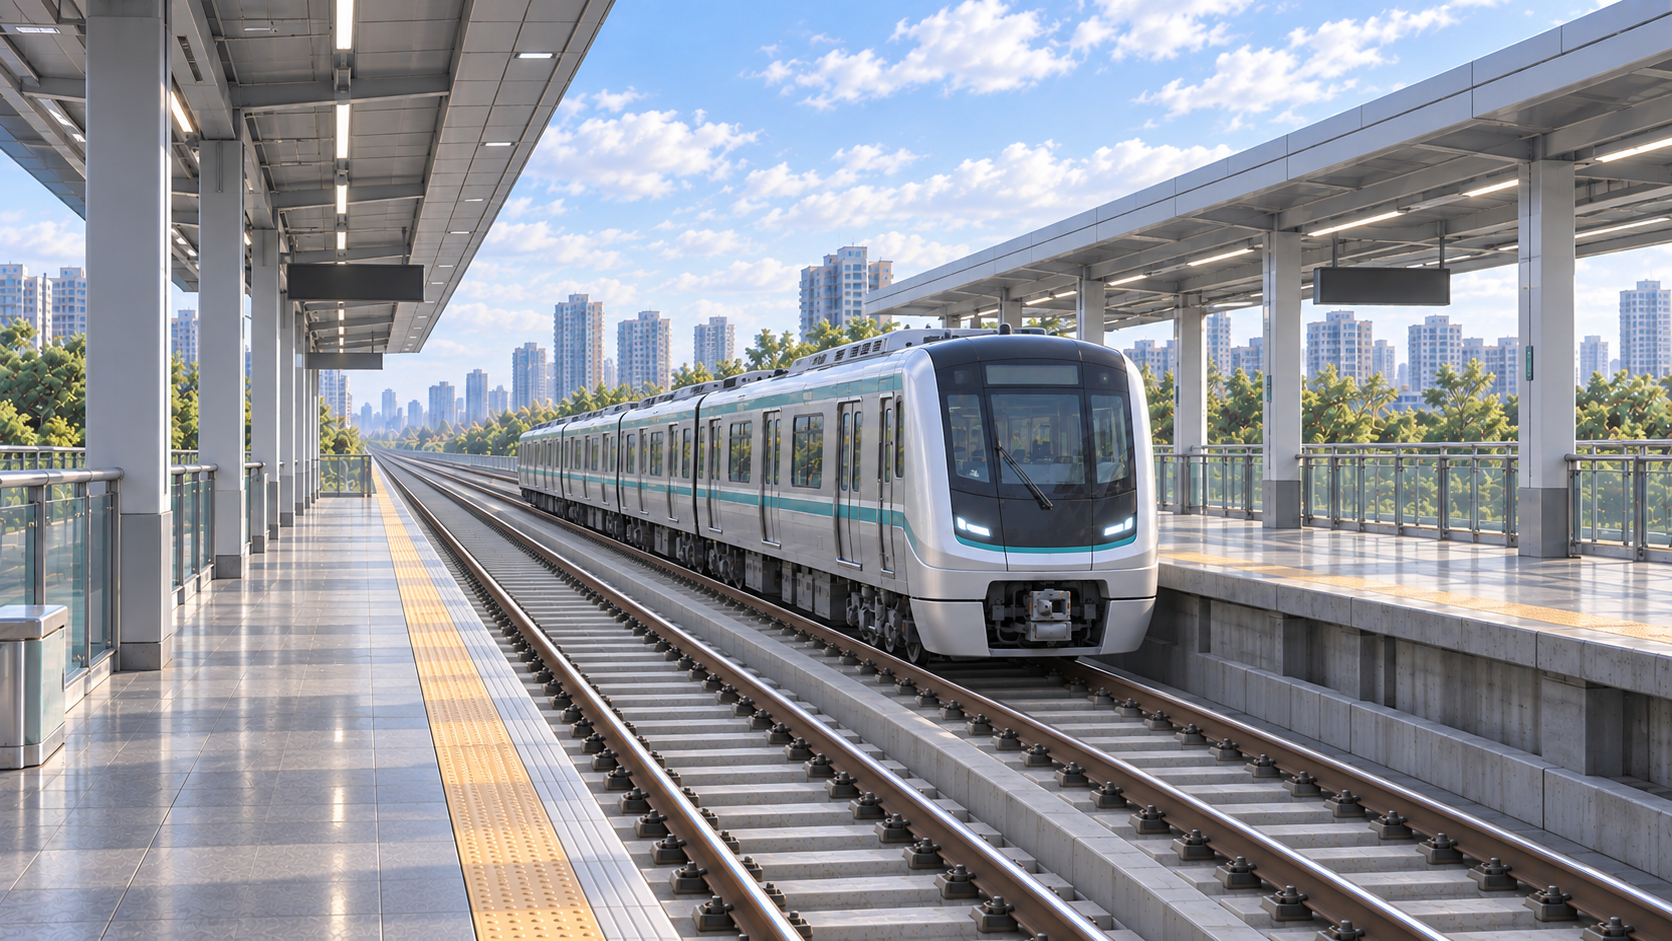
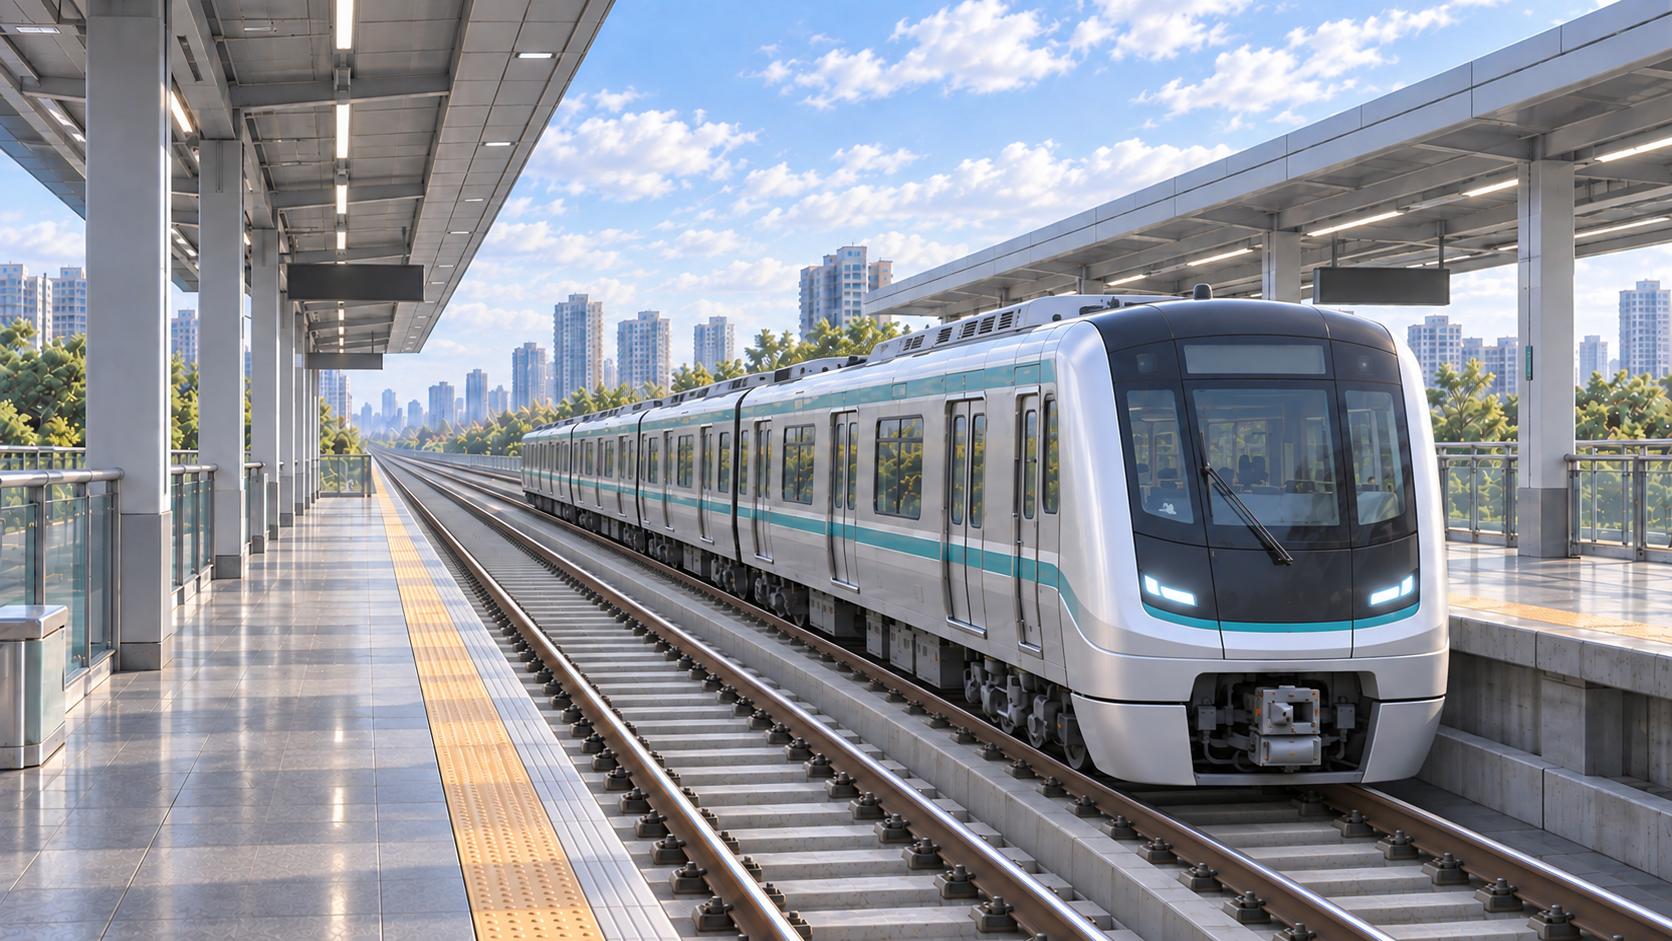
Bring the hero train forward within the station artwork

diff --git a/docs/design/home-train-forward-prompt.md b/docs/design/home-train-forward-prompt.md
@@ -1,0 +1,11 @@
+# Move the home hero train forward
+
+Edited with the built-in image generation tool. References: the previous `public/images/home-train-modern-cn.png` and the user's home page screenshot (composition context only). Selected output replaces `public/images/home-train-modern-cn.png`. Page layout and CSS remain unchanged.
+
+## Prompt
+
+Use case: precise-object-edit. Edit image 1, the clean Chinese metro station artwork. Image 2 is ONLY supporting context showing the actual application overlay; never reproduce its text, buttons, panels or darkness. Output ONLY a clean full-resolution 16:9 station background image.
+USER REQUEST: move the same train FORWARD toward the camera on its existing right-hand track. Keep the existing camera and station composition, same original modern rounded silver/teal Chinese metro design, same high-poly UE game visual quality. Do not redesign the train, zoom the entire scene, crop the image or change the station architecture.
+Translate the entire train several meters forward along its rails. It should look clearly closer and moderately larger, about 25-30 percent larger than image 1, not an enormous close-up. Because of track perspective the cab shifts toward the RIGHT as it advances. Target cab center around 78-80% of image width, with cab width around 21-23% image width, right edge around 91-92% of frame, roof around 24-27% image height and wheels around 75-78%. Cab remains entirely inside image with breathing room on right. Keep some of the right platform paving, columns and canopy visibly framing the train on the right, and broad left platform unchanged.
+COMPOSITION PURPOSE: in the actual application, action cards cover the lower middle/left part of this image. Move the cab into the right-hand clear area so its face can be seen beside those cards rather than directly behind them. Preserve calm uncluttered left side for text. This is achieved through the TRAIN POSITION INSIDE THE IMAGE only, not UI edits.
+Strict invariants: preserve same cab silhouette, short horizontal headlights, front windshield, pale silver body and subtle teal belt; realistic carbody and wheel proportions. Bogies and wheels must remain exactly on the RIGHT pair of running rails; adjust wheel positions and occlusion coherently with the forward motion. The two standard-gauge tracks have exactly FOUR running rails in total, identical physical gauge, same elevated deck level, modest inter-track gap, correct common vanishing point and uninterrupted continuation into distance. No extra rails, no track deformation or gauge changes. Both left and right platforms and their overhead roofs remain. Natural daylight, cool gray/blue/green colors, refined high-precision mesh rendering, no voxel, no pixelation, no photographic grain, no new text, no logos, no UI or watermark.
